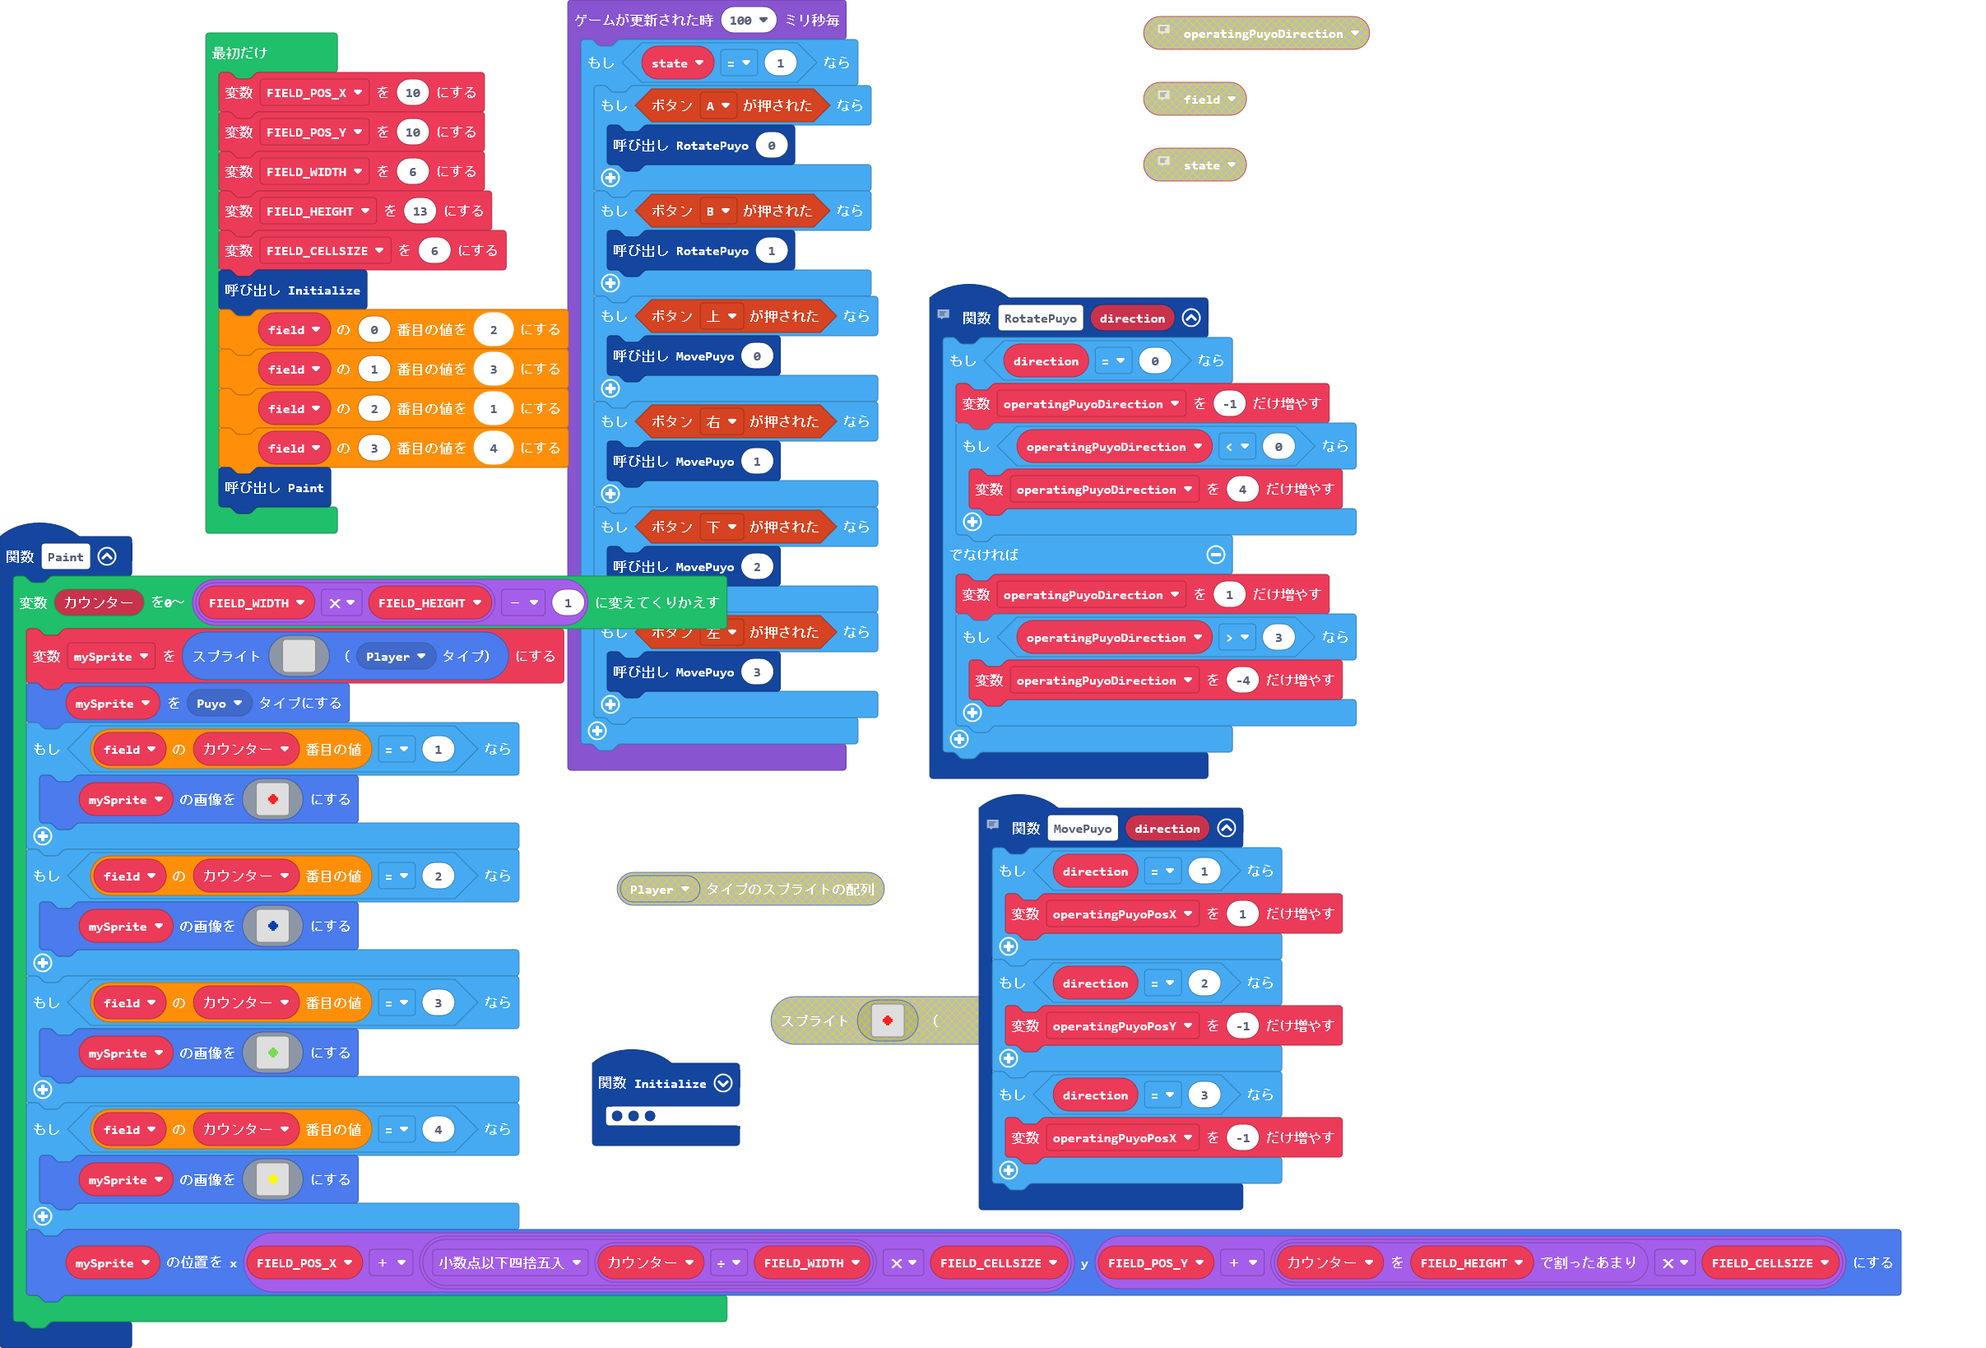
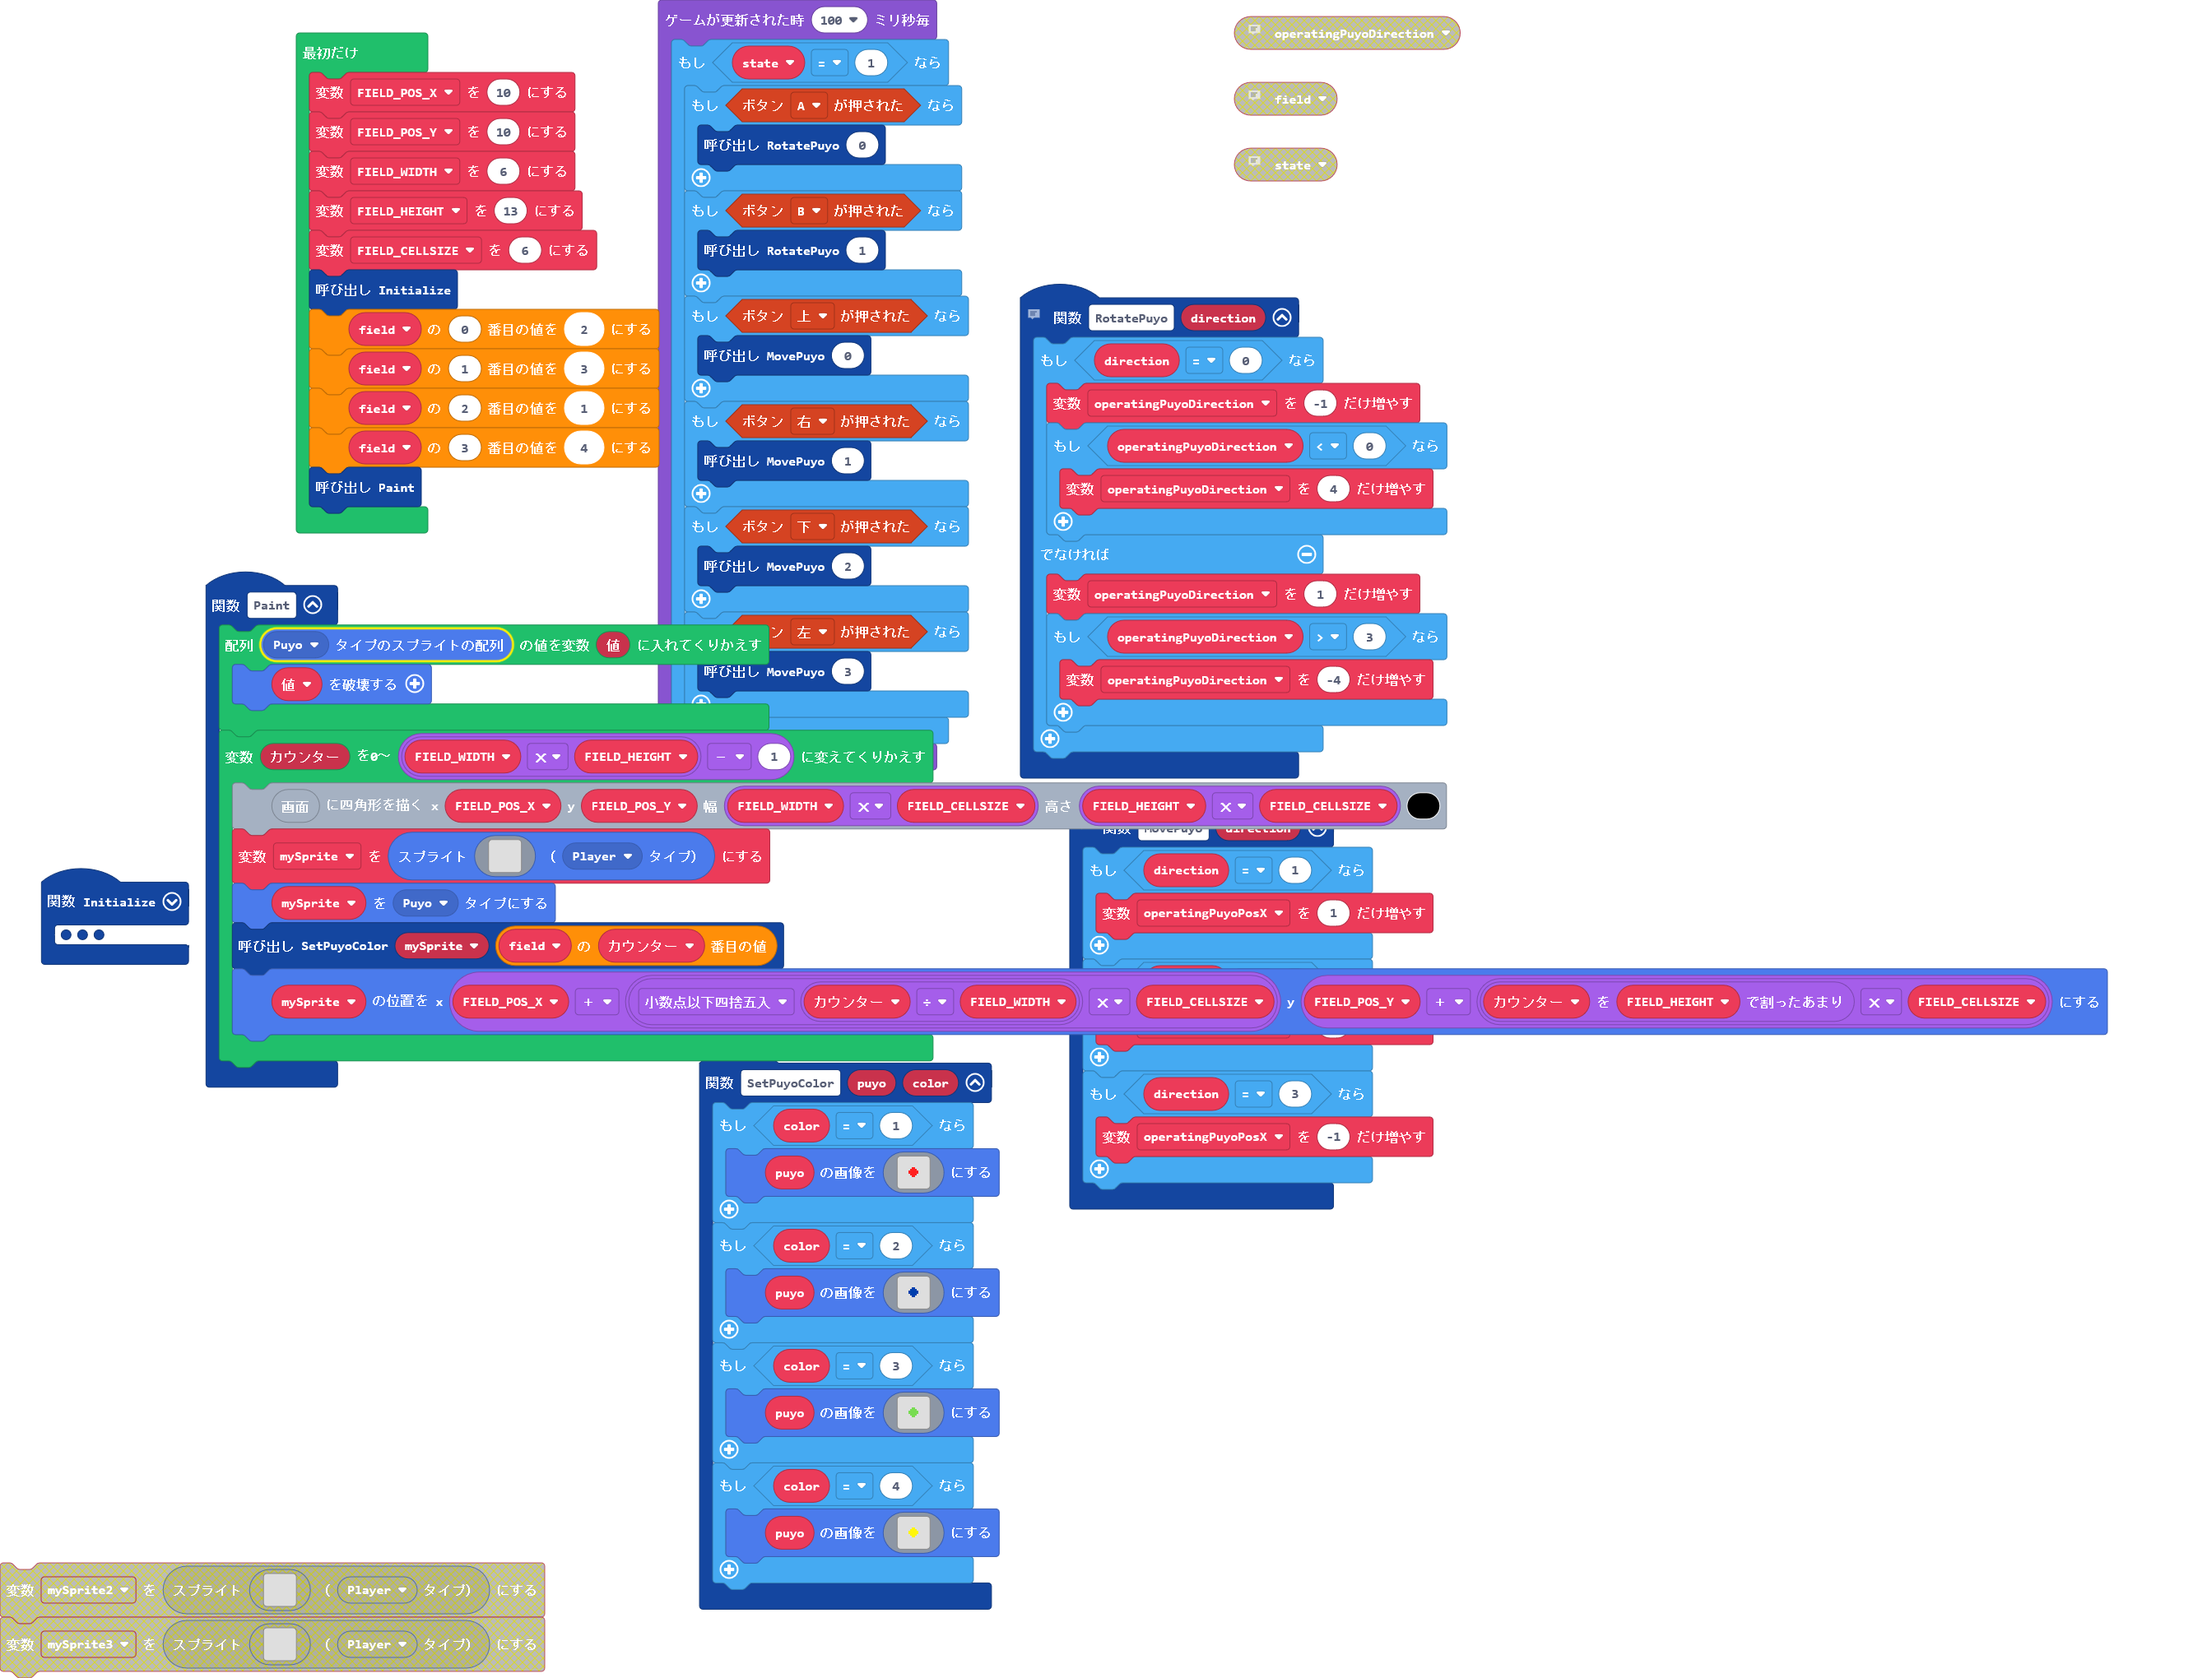
前のフレームのぷよを削除する仕様を追加

diff --git a/main.ts b/main.ts
@@ -1,8 +1,26 @@
 namespace SpriteKind {
     export const Puyo = SpriteKind.create()
 }
+function SetPuyoColor (puyo: Sprite, color: number) {
+    if (color == 1) {
+        puyo.setImage(assets.image`Puyo_Red`)
+    }
+    if (color == 2) {
+        puyo.setImage(assets.image`Puyo_Blue`)
+    }
+    if (color == 3) {
+        puyo.setImage(assets.image`Puyo_Green`)
+    }
+    if (color == 4) {
+        puyo.setImage(assets.image`Puyo_Yellow`)
+    }
+}
 function Paint () {
+    for (let 値 of sprites.allOfKind(SpriteKind.Puyo)) {
+        値.destroy()
+    }
     for (let カウンター = 0; カウンター <= FIELD_WIDTH * FIELD_HEIGHT - 1; カウンター++) {
+        image.screenImage().drawRect(FIELD_POS_X, FIELD_POS_Y, FIELD_WIDTH * FIELD_CELLSIZE, FIELD_HEIGHT * FIELD_CELLSIZE, 15)
         mySprite = sprites.create(img`
             . . . . . . . . . . . . . . . . 
             . . . . . . . . . . . . . . . . 
@@ -22,18 +40,7 @@ function Paint () {
             . . . . . . . . . . . . . . . . 
             `, SpriteKind.Player)
         mySprite.setKind(SpriteKind.Puyo)
-        if (field[カウンター] == 1) {
-            mySprite.setImage(assets.image`Puyo_Red`)
-        }
-        if (field[カウンター] == 2) {
-            mySprite.setImage(assets.image`Puyo_Blue`)
-        }
-        if (field[カウンター] == 3) {
-            mySprite.setImage(assets.image`Puyo_Green`)
-        }
-        if (field[カウンター] == 4) {
-            mySprite.setImage(assets.image`Puyo_Yellow`)
-        }
+        SetPuyoColor(mySprite, field[カウンター])
         mySprite.setPosition(FIELD_POS_X + Math.round(カウンター / FIELD_WIDTH) * FIELD_CELLSIZE, FIELD_POS_Y + カウンター % FIELD_HEIGHT * FIELD_CELLSIZE)
     }
 }
@@ -87,7 +94,7 @@ function Initialize () {
     for (let カウンター4 = 0; カウンター4 <= 1; カウンター4++) {
         next2Puyo[カウンター4] = randint(1, 4)
     }
-    scene.setBackgroundColor(0)
+    scene.setBackgroundColor(1)
 }
 let next2Puyo: number[] = []
 let nextPuyo: number[] = []

diff --git a/tilemap.g.ts b/tilemap.g.ts
@@ -1,0 +1,14 @@
+// 自動生成されたコードです。変更しないでください。
+namespace myTiles {
+    //% fixedInstance jres blockIdentity=images._tile
+    export const transparency16 = image.ofBuffer(hex``);
+
+    helpers._registerFactory("tile", function(name: string) {
+        switch(helpers.stringTrim(name)) {
+            case "transparency16":return transparency16;
+        }
+        return null;
+    })
+
+}
+// 自動生成されたコードです。変更しないでください。
